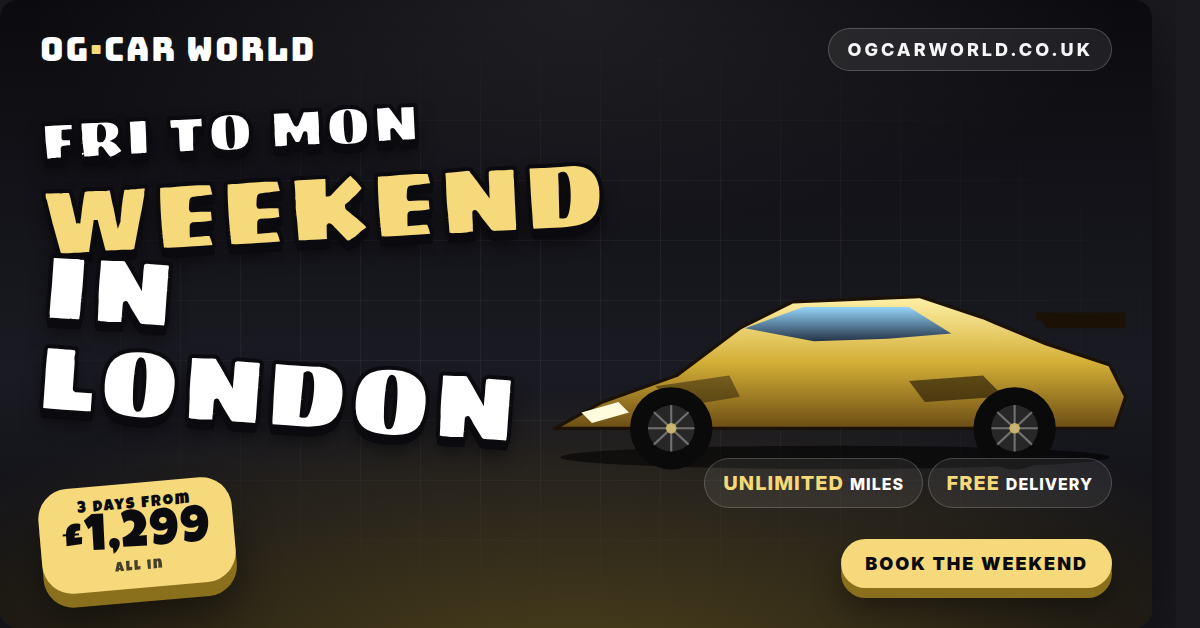
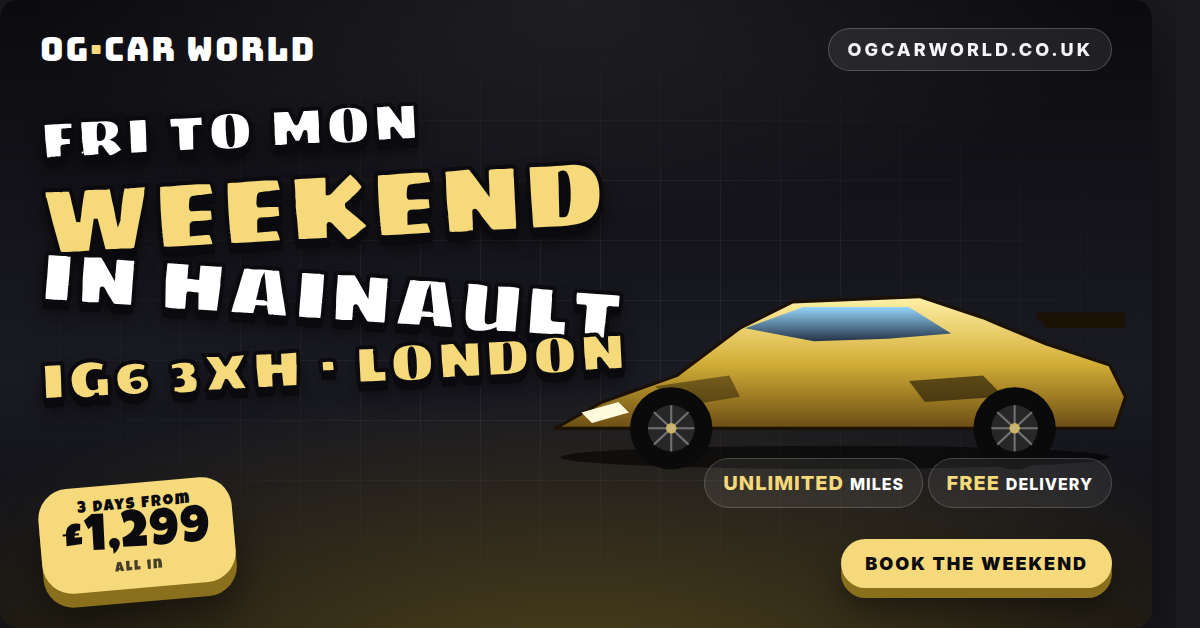
Use real business address (Hainault Business Park, IG6 3XH) on all ads
Swap placeholder cities (London/Manchester/Birmingham/Leeds) for the
confirmed OG Car World address. Every creative now carries HAINAULT as
the bubble-writing headline with IG6 3XH · LONDON as the supporting
line, and the full "Unit 7, Hainault Business Park, IG6 3XH, London"
in the smallprint. Also refit Fleet and Weekend headlines so the
longer word doesn't clash with the price tag or wrap onto two lines,
and regenerate all 8 PNGs.

diff --git a/ads/index.html b/ads/index.html
@@ -15,13 +15,13 @@
     size, and export for Instagram / Facebook / TikTok / print.
   </p>
   <ul>
-    <li><a href="01-lamborghini.html"><span class="kind">Square · 1080×1080</span><span class="title">Lamborghini Huracán — London</span></a></li>
-    <li><a href="02-ferrari.html"><span class="kind">Square · 1080×1080</span><span class="title">Ferrari 488 — Manchester</span></a></li>
-    <li><a href="03-bmw-m4.html"><span class="kind">Landscape · 1200×628</span><span class="title">BMW M4 Competition — Birmingham</span></a></li>
-    <li><a href="04-mercedes-amg.html"><span class="kind">Square · 1080×1080</span><span class="title">Mercedes-AMG GT — Leeds</span></a></li>
-    <li><a href="05-fleet.html"><span class="kind">Square · 1080×1080</span><span class="title">The Fleet — Showcase</span></a></li>
-    <li><a href="06-weekend-special.html"><span class="kind">Landscape · 1200×628</span><span class="title">Weekend Special</span></a></li>
-    <li><a href="07-wedding-prom.html"><span class="kind">Square · 1080×1080</span><span class="title">Weddings &amp; Prom</span></a></li>
+    <li><a href="01-lamborghini.html"><span class="kind">Square · 1080×1080</span><span class="title">Lamborghini Huracán — Hainault</span></a></li>
+    <li><a href="02-ferrari.html"><span class="kind">Square · 1080×1080</span><span class="title">Ferrari 488 — Hainault</span></a></li>
+    <li><a href="03-bmw-m4.html"><span class="kind">Landscape · 1200×628</span><span class="title">BMW M4 Competition — Hainault</span></a></li>
+    <li><a href="04-mercedes-amg.html"><span class="kind">Square · 1080×1080</span><span class="title">Mercedes-AMG GT — Hainault</span></a></li>
+    <li><a href="05-fleet.html"><span class="kind">Square · 1080×1080</span><span class="title">The Fleet — Hainault</span></a></li>
+    <li><a href="06-weekend-special.html"><span class="kind">Landscape · 1200×628</span><span class="title">Weekend Special — Hainault</span></a></li>
+    <li><a href="07-wedding-prom.html"><span class="kind">Square · 1080×1080</span><span class="title">Weddings &amp; Prom — Hainault</span></a></li>
     <li><a href="08-instagram-story.html"><span class="kind">Story · 1080×1920</span><span class="title">Instagram / TikTok Story</span></a></li>
   </ul>
 </main>

diff --git a/ads/02-ferrari.html b/ads/02-ferrari.html
@@ -16,10 +16,10 @@
     <img src="cars/ferrari.svg" alt="Ferrari 488"/>
   </div>
 
-  <div class="headline-stack" style="right:40px; top:120px; align-items:flex-end; text-align:right; max-width:90%;">
-    <span class="bubble white l">Hire in</span>
-    <span class="bubble gold xl">Manchester</span>
-    <span class="bubble white s">· UK WIDE DELIVERY ·</span>
+  <div class="headline-stack" style="right:40px; top:110px; align-items:flex-end; text-align:right; max-width:92%;">
+    <span class="bubble white m">Hire in</span>
+    <span class="bubble gold xl">HAINAULT</span>
+    <span class="bubble white s">IG6 3XH · LONDON</span>
   </div>
 
   <div class="pricetag" style="left:40px; bottom:180px; transform:rotate(-8deg);">
@@ -42,8 +42,8 @@
       <div class="cta white">Reserve Yours</div>
     </div>
     <div class="smallprint">
-      Prestige hire · chauffeur &amp; self-drive<br/>
-      Weekend and weekly packages available
+      Unit 7, Hainault Business Park, IG6 3XH, London<br/>
+      Chauffeur &amp; self-drive · UK wide delivery
     </div>
   </footer>
 </section>

diff --git a/ads/05-fleet.html b/ads/05-fleet.html
@@ -53,10 +53,10 @@
     <div class="url">ogcarworld.co.uk</div>
   </header>
 
-  <div class="headline-stack" style="left:40px; top:100px; max-width:70%;">
-    <span class="bubble white m">The Fleet</span>
-    <span class="bubble gold xl">LONDON</span>
-    <span class="bubble white s">· Delivered UK wide ·</span>
+  <div class="headline-stack" style="left:40px; top:100px; max-width:65%;">
+    <span class="bubble white s">The Fleet</span>
+    <span class="bubble gold l">HAINAULT</span>
+    <span class="bubble white s">IG6 3XH · LONDON</span>
   </div>
 
   <div class="pricetag" style="top:110px; right:36px;">
@@ -80,8 +80,8 @@
       <div class="cta">See the Full Fleet</div>
     </div>
     <div class="smallprint">
-      30+ prestige vehicles · insured &amp; delivered<br/>
-      Book online in under 60 seconds
+      Unit 7, Hainault Business Park, IG6 3XH, London<br/>
+      30+ prestige vehicles · UK wide delivery
     </div>
   </footer>
 </section>

diff --git a/ads/04-mercedes-amg.html b/ads/04-mercedes-amg.html
@@ -16,10 +16,10 @@
     <img src="cars/merc.svg" alt="Mercedes-AMG GT"/>
   </div>
 
-  <div class="headline-stack top-left">
-    <span class="bubble white l">Now in</span>
-    <span class="bubble silver xxl tilt-right">Leeds</span>
-    <span class="bubble gold m">· Nationwide delivery ·</span>
+  <div class="headline-stack" style="left:40px; top:110px; max-width:92%;">
+    <span class="bubble white m">Now in</span>
+    <span class="bubble silver xl tilt-right">HAINAULT</span>
+    <span class="bubble gold s">IG6 3XH · LONDON</span>
   </div>
 
   <div class="pricetag top-right">
@@ -42,8 +42,8 @@
       <div class="cta">Enquire Now</div>
     </div>
     <div class="smallprint">
-      Self-drive or chauffeured<br/>
-      Weddings · events · experiences
+      Unit 7, Hainault Business Park, IG6 3XH, London<br/>
+      Self-drive or chauffeured · events · experiences
     </div>
   </footer>
 </section>

diff --git a/ads/01-lamborghini.html b/ads/01-lamborghini.html
@@ -17,9 +17,10 @@
   </div>
 
   <!-- Location + price in bubble-writing headline -->
-  <div class="headline-stack top-left">
-    <span class="bubble gold xl">Based in</span>
-    <span class="bubble white xxl tilt-right">London</span>
+  <div class="headline-stack" style="left:40px; top:110px; max-width:92%;">
+    <span class="bubble gold l">Based in</span>
+    <span class="bubble white xl tilt-right">HAINAULT</span>
+    <span class="bubble gold s">IG6 3XH · LONDON</span>
   </div>
 
   <div class="pricetag bottom-right">
@@ -42,8 +43,8 @@
       <div class="cta">Book Online</div>
     </div>
     <div class="smallprint">
-      Self-drive hire · 25+ drivers · Fully insured<br/>
-      Free delivery across Greater London
+      Unit 7, Hainault Business Park, IG6 3XH, London<br/>
+      Self-drive hire · 25+ drivers · fully insured
     </div>
   </footer>
 </section>

diff --git a/ads/06-weekend-special.html b/ads/06-weekend-special.html
@@ -16,10 +16,11 @@
     <img src="cars/lambo.svg" alt="Lamborghini weekend" style="width:55%;"/>
   </div>
 
-  <div class="headline-stack" style="left:40px; top:100px; max-width:55%;">
+  <div class="headline-stack" style="left:40px; top:100px; max-width:60%;">
     <span class="bubble white s">FRI TO MON</span>
     <span class="bubble gold l">Weekend</span>
-    <span class="bubble white l tilt-right">in LONDON</span>
+    <span class="bubble white m tilt-right">in HAINAULT</span>
+    <span class="bubble gold s">IG6 3XH · LONDON</span>
   </div>
 
   <div class="pricetag" style="left:40px; bottom:40px; transform:rotate(-5deg); padding:14px 22px;">

diff --git a/ads/03-bmw-m4.html b/ads/03-bmw-m4.html
@@ -17,9 +17,9 @@
   </div>
 
   <div class="headline-stack" style="left:40px; top:100px; max-width:58%;">
-    <span class="bubble white m">Drive the</span>
+    <span class="bubble white s">Drive the</span>
     <span class="bubble blue l tilt-right">M4 COMP</span>
-    <span class="bubble gold s">in Birmingham</span>
+    <span class="bubble gold s">HAINAULT · IG6</span>
   </div>
 
   <div class="pricetag" style="left:40px; bottom:40px; transform:rotate(-4deg); padding:14px 22px;">

diff --git a/ads/08-instagram-story.html b/ads/08-instagram-story.html
@@ -52,8 +52,8 @@
 
   <div class="story-stack">
     <span class="bubble white l">Luxury hire</span>
-    <span class="bubble gold xxl tilt-right">LONDON</span>
-    <span class="bubble white m">· Nationwide delivery ·</span>
+    <span class="bubble gold xl tilt-right">HAINAULT</span>
+    <span class="bubble white m">IG6 3XH · LONDON</span>
   </div>
 
   <div class="story-hero">

diff --git a/ads/07-wedding-prom.html b/ads/07-wedding-prom.html
@@ -42,8 +42,8 @@
       <div class="cta">Book Your Date</div>
     </div>
     <div class="smallprint">
-      Mercedes · BMW · Ferrari · Lamborghini<br/>
-      London · Birmingham · Manchester · Leeds
+      Unit 7, Hainault Business Park, IG6 3XH, London<br/>
+      Mercedes · BMW · Ferrari · Lamborghini
     </div>
   </footer>
 </section>

diff --git a/ads/README.md b/ads/README.md
@@ -4,6 +4,9 @@ Eight print/social-ready ad creatives for **ogcarworld.co.uk**.
 
 ## Contents
 
+All ads advertise the real business address:
+**Unit 7, Hainault Business Park, IG6 3XH, London.**
+
 | File | Size | Format | Headline car |
 |---|---|---|---|
 | `01-lamborghini.html` | 1080×1080 | IG / FB feed | Lamborghini Huracán |
@@ -61,7 +64,6 @@ Rebrand globally by editing the `:root` variables in `styles.css`.
 
 ## Caveat
 
-`ogcarworld.co.uk` was unreachable at build time (HTTP 403 on fetch),
-so brand specifics (exact locations, pricing tiers, slogan) are
-placeholders modelled on typical UK luxury-hire positioning. Swap
-values before running paid spend.
+Location is confirmed: **Unit 7, Hainault Business Park, IG6 3XH,
+London**. Prices are placeholders modelled on typical UK luxury-hire
+positioning — swap in the real daily rates before running paid spend.
